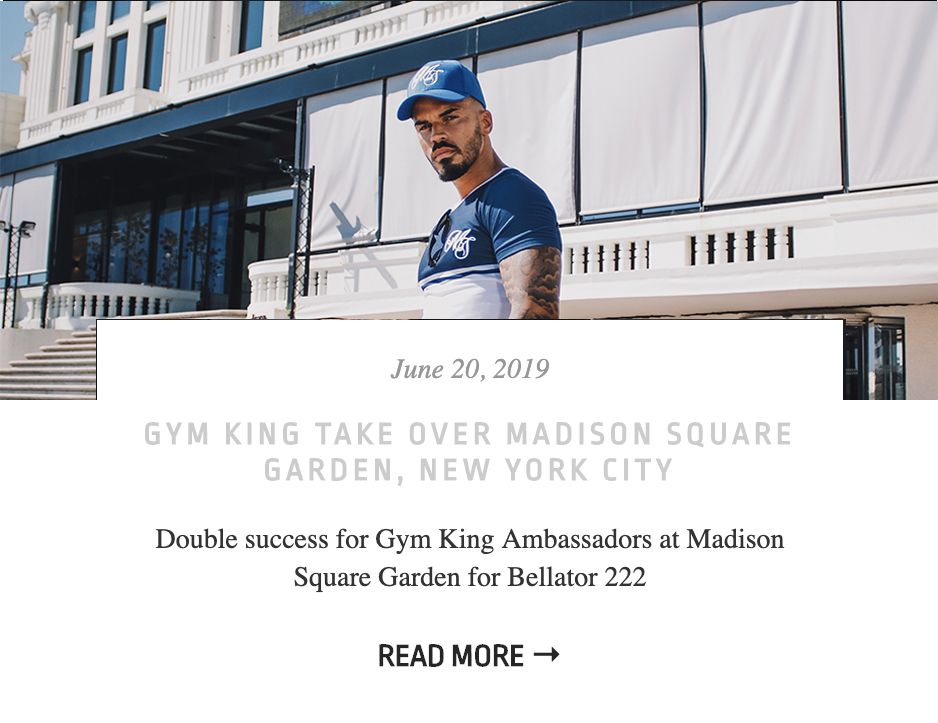
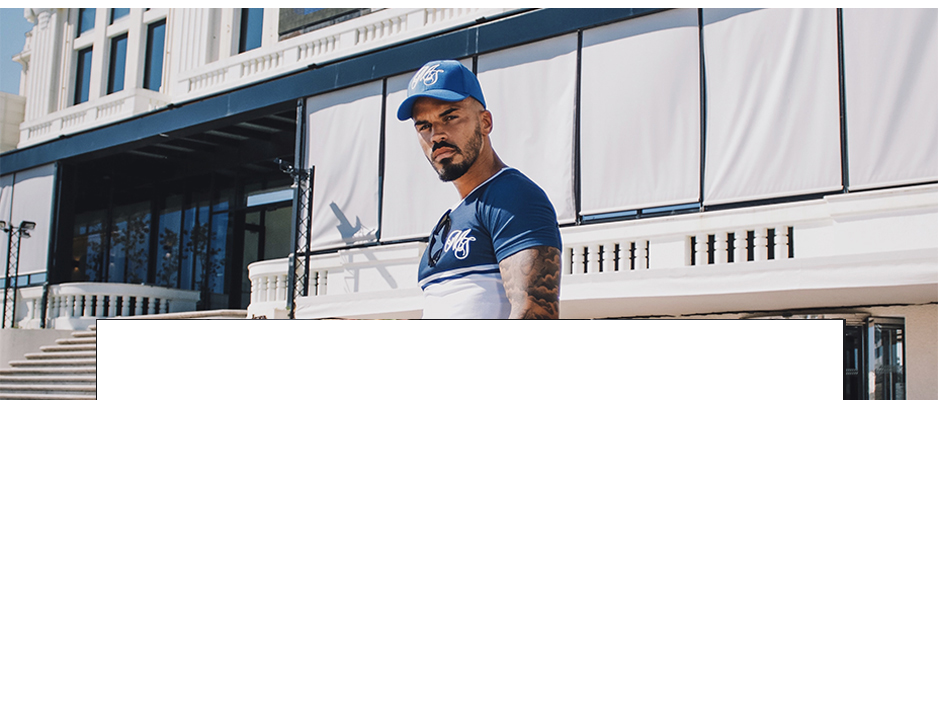
6

diff --git a/blog.html b/blog.html
@@ -14,14 +14,38 @@ categoria: blog
 </div>
 
 <h1 style="text-align: center; margin-top: 20px; ">OS NOSSOS POSTS</h1>
+<div style="position: relative;" class="coisf">
 
-  <div class="" style="margin-top: 20px;display: flex; flex-wrap: wrap; justify-content: space-around;">
+<div style="display: flex; flex-wrap: wrap;     justify-content: center;">
+ {% assign posts = site.blog] | sample:2 %}
 
-{% for t in site.blog %}
+{% for t in posts %}
 
-<a style="width: 50%;" href="{{ site.url }}/{{ page.categoria }}/{{ t.link }}">
-  	<img style="width: 100%;" class="" src="{{ t.img }}" alt="{{ t.titulo }}">
+<a style="width: 50%;" href="{{ site.url }}/blog/{{ t.link }}">
+  <img style="width: 100%;" class="" src="{{ t.img }}" alt="{{ t.titulo }}">
 </a>
+<div style="position: absolute; z-index: 20; display: flex; justify-content: center; align-self: center; flex-direction: column; margin-top: 40px;">
+    <div style=" font-size: 10px;    font-size: 10px; flex-direction: column; margin-top: 40px;
+    display: flex;
+    flex-direction: column;
+    justify-content: center;
+    align-items: center;" class="">
+      <a href="{{ site.url }}/blog/{{ t.link }}"><h2 class="" style="text-transform: uppercase;">{{ t.titulo }}</h2></a>
+                       <a style="margin-top: 20px;" href="{{ site.url }}/blog/{{ t.link }}"> <h3 class="" style="color: gray;">{{ t.dia }}</h3></a>
 
+           <a style="" href="{{ site.url }}/blog/{{ t.link }}"> <h3 class="" style="text-align: center; color: gray;">{{ t.resumo }}</h3></a>
+    </div>
+    <div style="display: flex; justify-content: center;">
+    <a href="{{ site.url }}/blog/{{ t.link }}" style="z-index: 3;"><button class="submite " style="background-color: #E8E8E8; z-index: 3; align-self: flex-start; " onclick="location.href='{{ site.url }}/blog/{{ t.link }}'">LER MAIS</button></a>
+  </div>
 {% endfor %}
+</div>
+
+</div>
+
+</div>
+
+</div>
+
+</div>
   </div>

diff --git a/_layouts/news.html b/_layouts/news.html
@@ -14,5 +14,33 @@ layout: default
     </div>
 </div>
 </div>
+<div style="position: relative; height: 100vh;">
 
-  <div class=""><img style="width: 100%;" class="" src="{{ page.img }}" alt="banner{{ page.titulo }}"></div>
+<div style="display: flex; flex-wrap: wrap;        justify-content: center;">
+ 
+
+  <img style="width: 50%;" class="" src="{{ page.img }}" alt="{{ t.titulo }}">
+<div style="position: absolute; z-index: 20; display: flex; justify-content: center; align-self: center; flex-direction: column; margin-top: 40px;">
+    <div style=" font-size: 10px;    font-size: 10px; flex-direction: column; margin-top: 40px;
+    display: flex;
+    flex-direction: column;
+    justify-content: center;
+    align-items: center;" class="">
+      <a href="{{ site.url }}/blog/{{ t.link }}" style="margin-top: 100px; "><h2 class="" style="text-transform: uppercase;">{{ page.titulo }}</h2></a>
+                       <a style="margin-top: 20px;" href="{{ site.url }}/blog/{{ t.link }}"> <h3 class="" style="color: gray;">{{ t.dia }}</h3></a>
+           <a style="margin-top: 20px;" href="{{ site.url }}/blog/{{ t.link }}"> <h3 class="" style="text-align: center; color: gray;">{{ page.resumo }}</h3></a>
+    </div>
+
+   <div style="width: 100%; margin-top: 30px; display: flex;">
+<p>{{ page.content }}</p>
+
+</div>
+
+</div>
+  </div>
+</div>
+
+</div>
+
+</div>
+  </div>

diff --git a/assets/css/main.css b/assets/css/main.css
@@ -2933,6 +2933,10 @@ left: 0;
     justify-content: center !important;
   }
 
+  .coisf {
+    height: 300px;
+  }
+
 .prod {
       margin-right: 0 !important;
 }

diff --git a/index.md b/index.md
@@ -335,18 +335,37 @@ sss: Loja Online de Roupa Masculina. Compre em Portugal Continental e Ilhas T-sh
 
 
 
-<div style="display: flex; flex-wrap: wrap;">
- {% assign posts = site.blog] | sample:4 %}
+<div style="position: relative;">
+
+<div style="display: flex; flex-wrap: wrap;     justify-content: center;">
+ {% assign posts = site.blog] | sample:2 %}
 
 {% for t in posts %}
 
 <a style="width: 50%;" href="{{ site.url }}/blog/{{ t.link }}">
   <img style="width: 100%;" class="" src="{{ t.img }}" alt="{{ t.titulo }}">
 </a>
-
+<div style="position: absolute; z-index: 20; display: flex; justify-content: center; align-self: center; flex-direction: column; margin-top: 20px;">
+    <div style=" font-size: 10px;    font-size: 10px; flex-direction: column; margin-top: 20px;
+    display: flex;
+    flex-direction: column;
+    justify-content: center;
+    align-items: center;" class="">
+      <a href="{{ site.url }}/blog/{{ t.link }}"><h2 class="" style="text-transform: uppercase;">{{ t.titulo }}</h2></a>
+           <a style="margin-top: 20px;" href="{{ site.url }}/blog/{{ t.link }}"> <h3 class="" style="color: gray;">{{ t.resumo }}</h3></a>
+    </div>
+    <div style="display: flex; justify-content: center;">
+    <a href="{{ site.url }}/blog/{{ t.link }}" style="z-index: 3;"><button class="submite mobks" style="background-color: #E8E8E8; z-index: 3; align-self: flex-start; " onclick="location.href='{{ site.url }}/blog/{{ t.link }}'">LER MAIS</button></a>
+  </div>
 {% endfor %}
 </div>
 </div>
+</div>
+    <div style="display: flex; justify-content: center;">
+    <a href="{{ site.url }}/blog" style="z-index: 3;"><button class="submite mobks" style="background-color: #E8E8E8; z-index: 3; align-self: flex-start; " onclick="location.href='{{ site.url }}/blog'">VER BLOG</button></a>
+  </div>
+</div>
+
 </div>
 
 <div class="instagrammobile" style="flex-wrap: wrap; display: none;">
@@ -392,8 +411,9 @@ sss: Loja Online de Roupa Masculina. Compre em Portugal Continental e Ilhas T-sh
 ">GOGOGO LIFESTYLE</h2>
 
 
+<div style="position: relative;">
 
-<div style="display: flex; flex-wrap: wrap;">
+<div style="display: flex; flex-wrap: wrap;     justify-content: center;">
  {% assign posts = site.blog] | sample:2 %}
 
 {% for t in posts %}
@@ -401,10 +421,28 @@ sss: Loja Online de Roupa Masculina. Compre em Portugal Continental e Ilhas T-sh
 <a style="width: 100%;" href="{{ site.url }}/blog/{{ t.link }}">
   <img style="width: 100%;" class="" src="{{ t.img }}" alt="{{ t.titulo }}">
 </a>
-
+<div style="position: absolute; z-index: 20; display: flex; justify-content: center; align-self: center; flex-direction: column; margin-top: 40px;">
+    <div style=" font-size: 10px;    font-size: 10px; flex-direction: column; margin-top: 40px;
+    display: flex;
+    flex-direction: column;
+    justify-content: center;
+    align-items: center;" class="">
+      <a href="{{ site.url }}/blog/{{ t.link }}"><h2 class="" style="text-transform: uppercase;">{{ t.titulo }}</h2></a>
+                 <a style="margin-top: 20px;" href="{{ site.url }}/blog/{{ t.link }}"> <h3 class="" style="color: gray;">{{ t.dia }}</h3></a>
+           <a style="margin-top: 20px;" href="{{ site.url }}/blog/{{ t.link }}"> <h3 class="" style="color: gray;">{{ t.resumo }}</h3></a>
+    </div>
+    <div style="display: flex; justify-content: center;">
+    <a href="{{ site.url }}/blog/{{ t.link }}" style="z-index: 3;"><button class="submite " style="background-color: #E8E8E8; z-index: 3; align-self: flex-start; " onclick="location.href='{{ site.url }}/blog/{{ t.link }}'">LER MAIS</button></a>
+  </div>
 {% endfor %}
 </div>
 </div>
+</div>
+    <div style="display: flex; justify-content: center;     margin-top: 40px;">
+    <a href="{{ site.url }}/blog" style="z-index: 3;"><button class="submite " style="background-color: #E8E8E8; z-index: 3; align-self: flex-start; " onclick="location.href='{{ site.url }}/blog'">VER BLOG</button></a>
+  </div>
+</div>
+
 </div>
 
 

diff --git a/_blog/post1.md b/_blog/post1.md
@@ -1,9 +1,17 @@
 ---
 layout: news
-id: 3
-name: Boné MS Purple Basic
 link: post1
-titulo: post11
+titulo: Bem Vindo
+resumo: Criamos um blog, onde podes acompanhar a GOGOGO LIFESTYLE!
 categoria: blog
 img: /assets/images/post11.jpg
+dia: 19/08/19
 ---
+
+
+
+Podes a partir de hoje seguir as nossas novidades neste blog.
+<br>
+Iremos publicar dicas, descontos e até códigos exclsivos promocionais da nossa loja!
+<br>
+Vais querer ficar de for?
